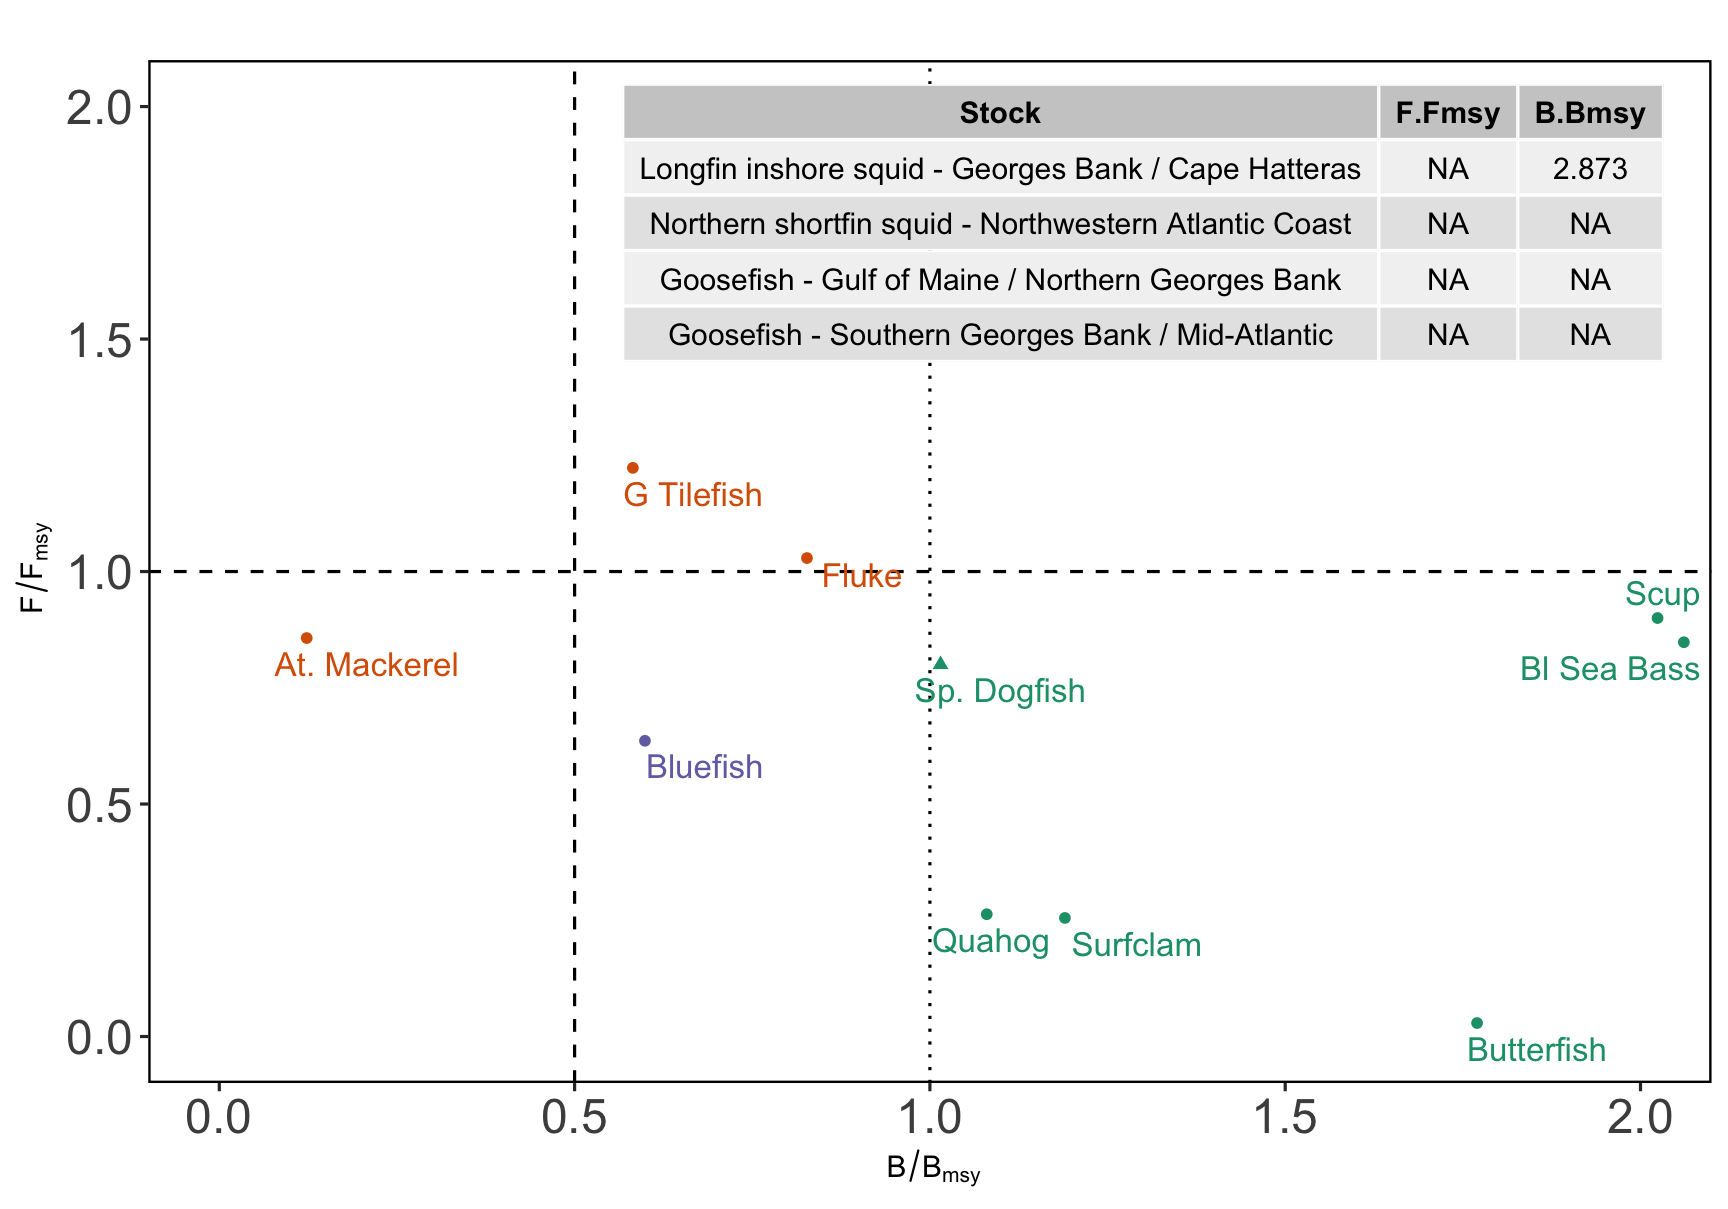
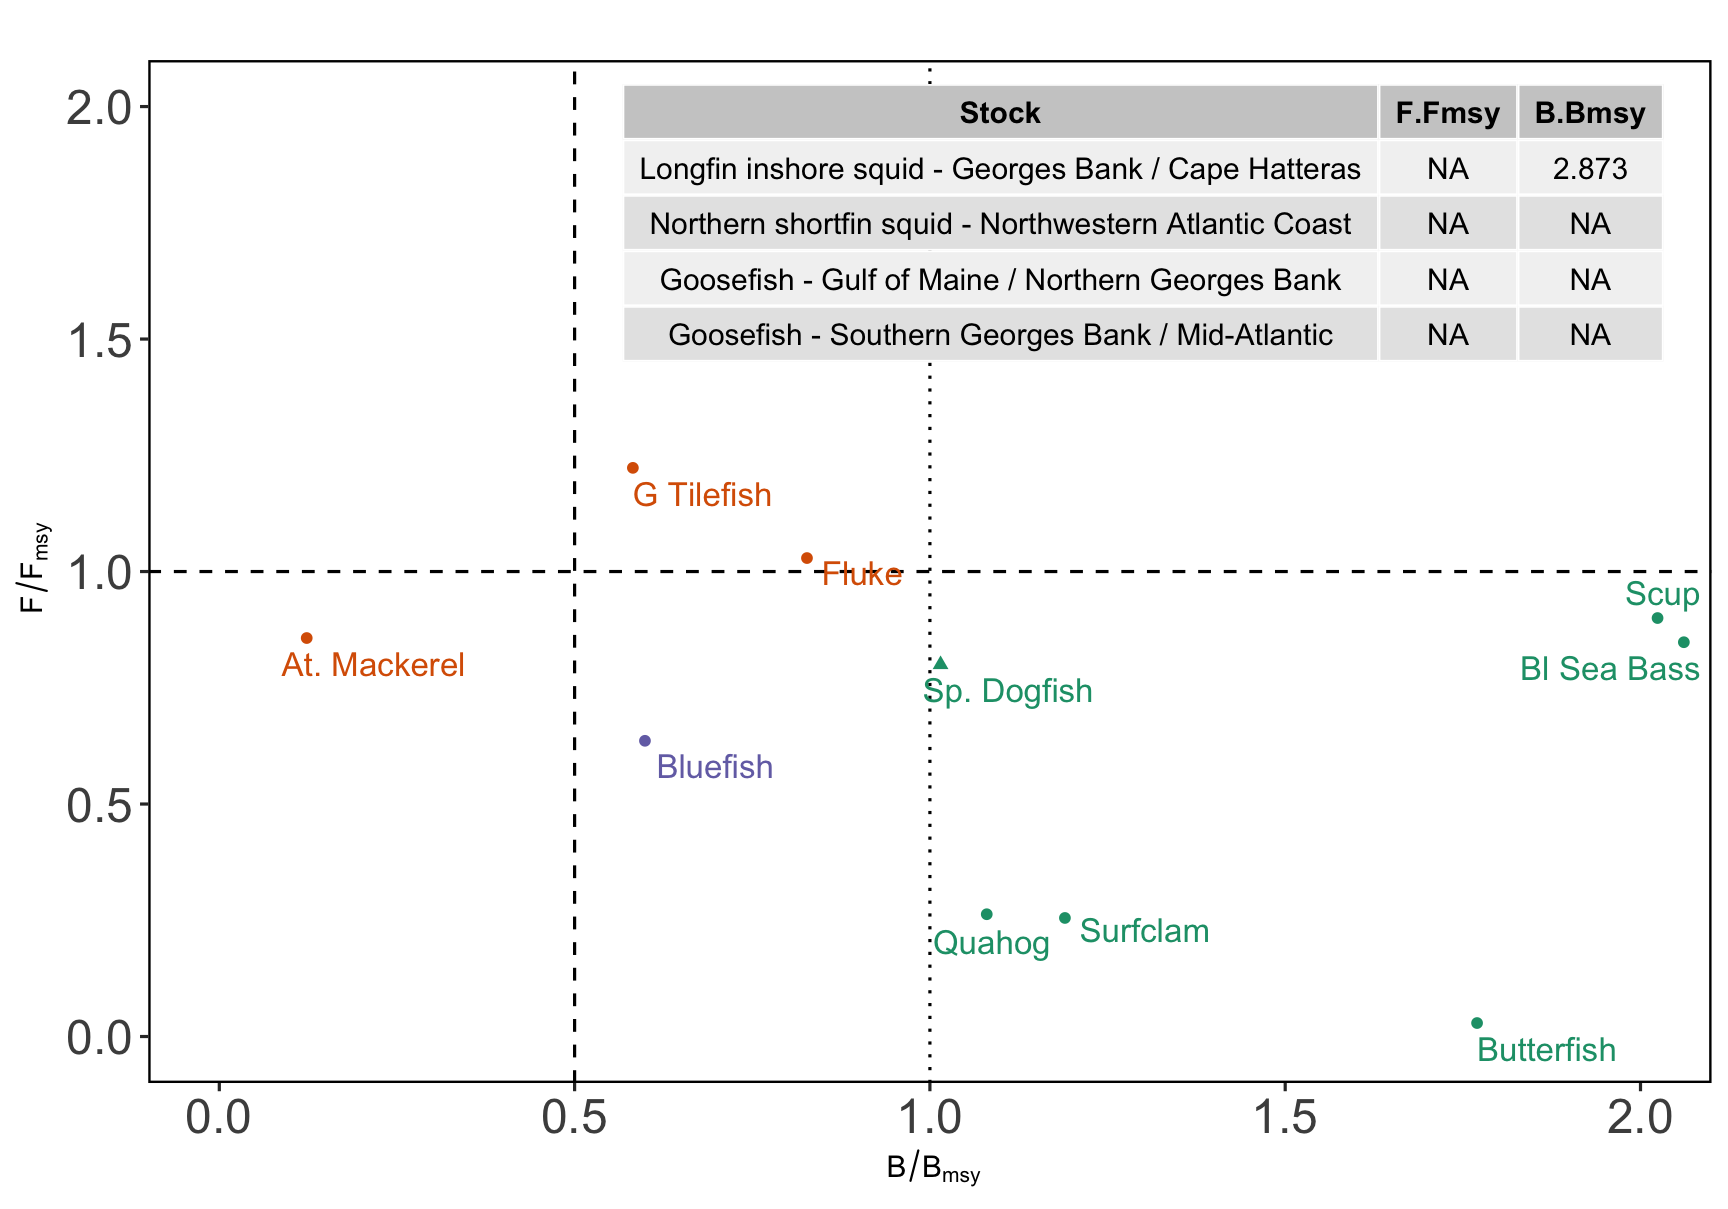
formatting

diff --git a/docs/20260205_USrefpts_Gaichas.html b/docs/20260205_USrefpts_Gaichas.html
@@ -96,9 +96,17 @@ typically `\(F_{MSY}\)`
 ]
 
 ---
-## Where can precaution increased or reduced? Free et al 2023 Figure 6
+## Where can precaution increased or reduced? ([Free et al., 2023](https://onlinelibrary.wiley.com/doi/abs/10.1111/faf.12724)) Fig. 6
 
-![:img Free et al 2023 Figure 6, 80%](https://onlinelibrary.wiley.com/cms/asset/644e1cdc-4f56-4119-a3fc-9b3cffa63dcc/faf12724-fig-0006-m.jpg)
+US Councils work primarily with F buffers, but Free et al. 2023 summarize the other ways that control rules can have increased or decreased precaution in the biomass reference points.
+
+&lt;br /&gt;&lt;br /&gt;&lt;br /&gt;
+
+.center[
+![:img Free et al 2023 Figure 6, 100%](https://onlinelibrary.wiley.com/cms/asset/644e1cdc-4f56-4119-a3fc-9b3cffa63dcc/faf12724-fig-0006-m.jpg)
+]
+
+
 
 ---
 ## Acceptable Biological Catch (ABC) determination: Mid Atlantic approach
